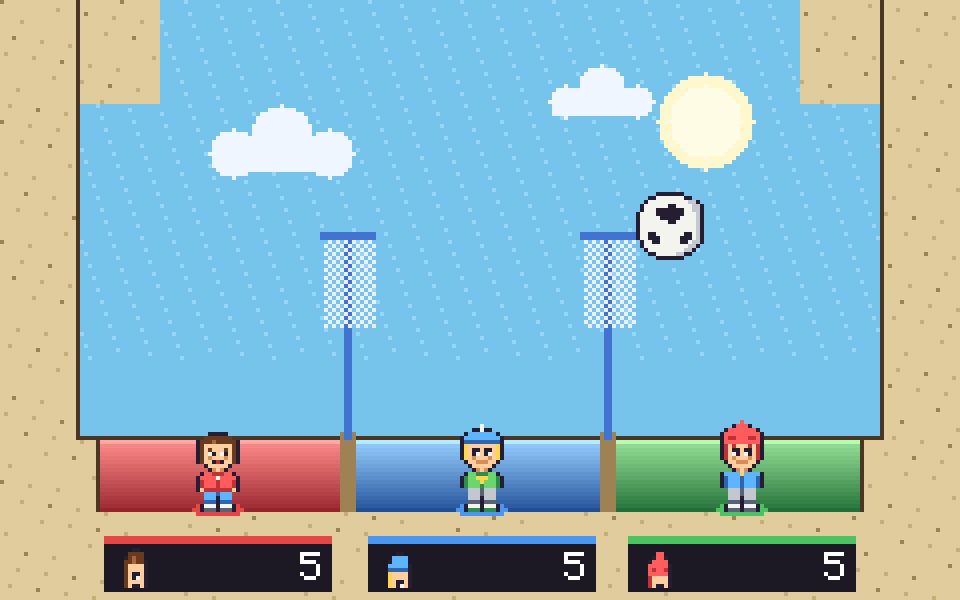
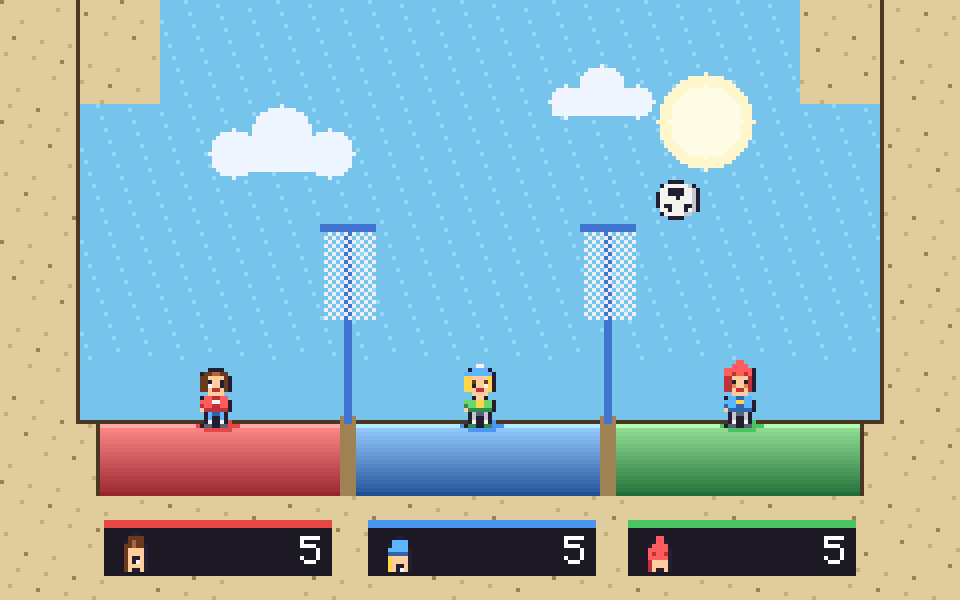
Slime Volley mockup: match reference size ratios
Players ~13% of court height (small), ball ~1.2x a player, big open
areas — players now stand on the rim of their colored hole. Matches the
proportions of the reference screenshot.

Claude-Session: https://claude.ai/code/session_01BmHu9ZjHHfJoGBLXT33Kpc

diff --git a/art/volley.py b/art/volley.py
@@ -64,11 +64,14 @@ def ball(img, cx, cy, r=7):
     sc = (2 * r) / bw; bi = bi.resize((int(bw * sc), int(bh * sc)), Image.NEAREST)
     img.alpha_composite(bi, (cx - bi.width // 2, cy - bi.height // 2))
 
-# court geometry (native px)
+# court geometry (native px) — players small + ball ~player-sized, matching the
+# reference ratios (player ~13% of play height, ball ~1.15x a player, big areas).
 PX0, PX1 = 22, 218          # play area x-range
-FLOOR_TOP = 110             # rim of the pits / sand surface
-FLOOR_BOT = 128             # bottom of the pits (the lose-line)
-NET_TOP = 60                # how high the nets reach
+FLOOR_TOP = 106             # rim of the holes / where players stand
+FLOOR_BOT = 124             # bottom of the holes (the lose-zone interior)
+NET_TOP = 58                # how high the nets reach
+PSCALE = 0.6                # ~13px-tall players
+BALL_R = 8                  # ~16px ball ≈ 1.2x a player
 
 def scene(count):
     W, H = 240, 150
@@ -115,17 +118,16 @@ def scene(count):
             for x in range(dx - 6, dx + 7):
                 if (x + y) % 2 == 0: setpx(px, W, H, x, y, NETW)
         fill(px, W, H, dx - 7, NET_TOP - 2, dx + 7, NET_TOP, NETP)         # top band
-    # players standing at the bottom of their pit (kept SMALL so the court feels big)
+    # small players standing on the RIM of their hole (so the court reads big)
     for i in range(count):
         cx = int(PX0 + (i + 0.5) * zoneW)
         rim, body, deep = ZONE[i]
-        # coloured pad
-        for yy in range(-2, 2):
-            for xx in range(-6, 7):
-                if (xx / 6) ** 2 + (yy / 2.0) ** 2 <= 1: setpx(px, W, H, cx + xx, FLOOR_BOT - 1 + yy, body)
-        fighter(img, ZNAMES[i], cx, FLOOR_BOT, scale=0.8, flip=(i % 2 == 1))
-    # the BIG beach ball, arcing over a net toward someone's hole
-    ball(img, int(PX0 + zoneW * (count - 0.7)), 56, r=13)
+        for yy in range(-1, 2):                       # small coloured pad on the rim
+            for xx in range(-5, 6):
+                if (xx / 5) ** 2 + (yy / 1.6) ** 2 <= 1: setpx(px, W, H, cx + xx, FLOOR_TOP + yy, body)
+        fighter(img, ZNAMES[i], cx, FLOOR_TOP + 1, scale=PSCALE, flip=(i % 2 == 1))
+    # the ball — roughly player-sized (a touch bigger), arcing toward someone's hole
+    ball(img, int(PX0 + zoneW * (count - 0.7)), 50, r=BALL_R)
     # score chips along the bottom sand
     for i in range(count):
         cx = int(PX0 + (i + 0.5) * zoneW); bw2 = int(zoneW) - 8
